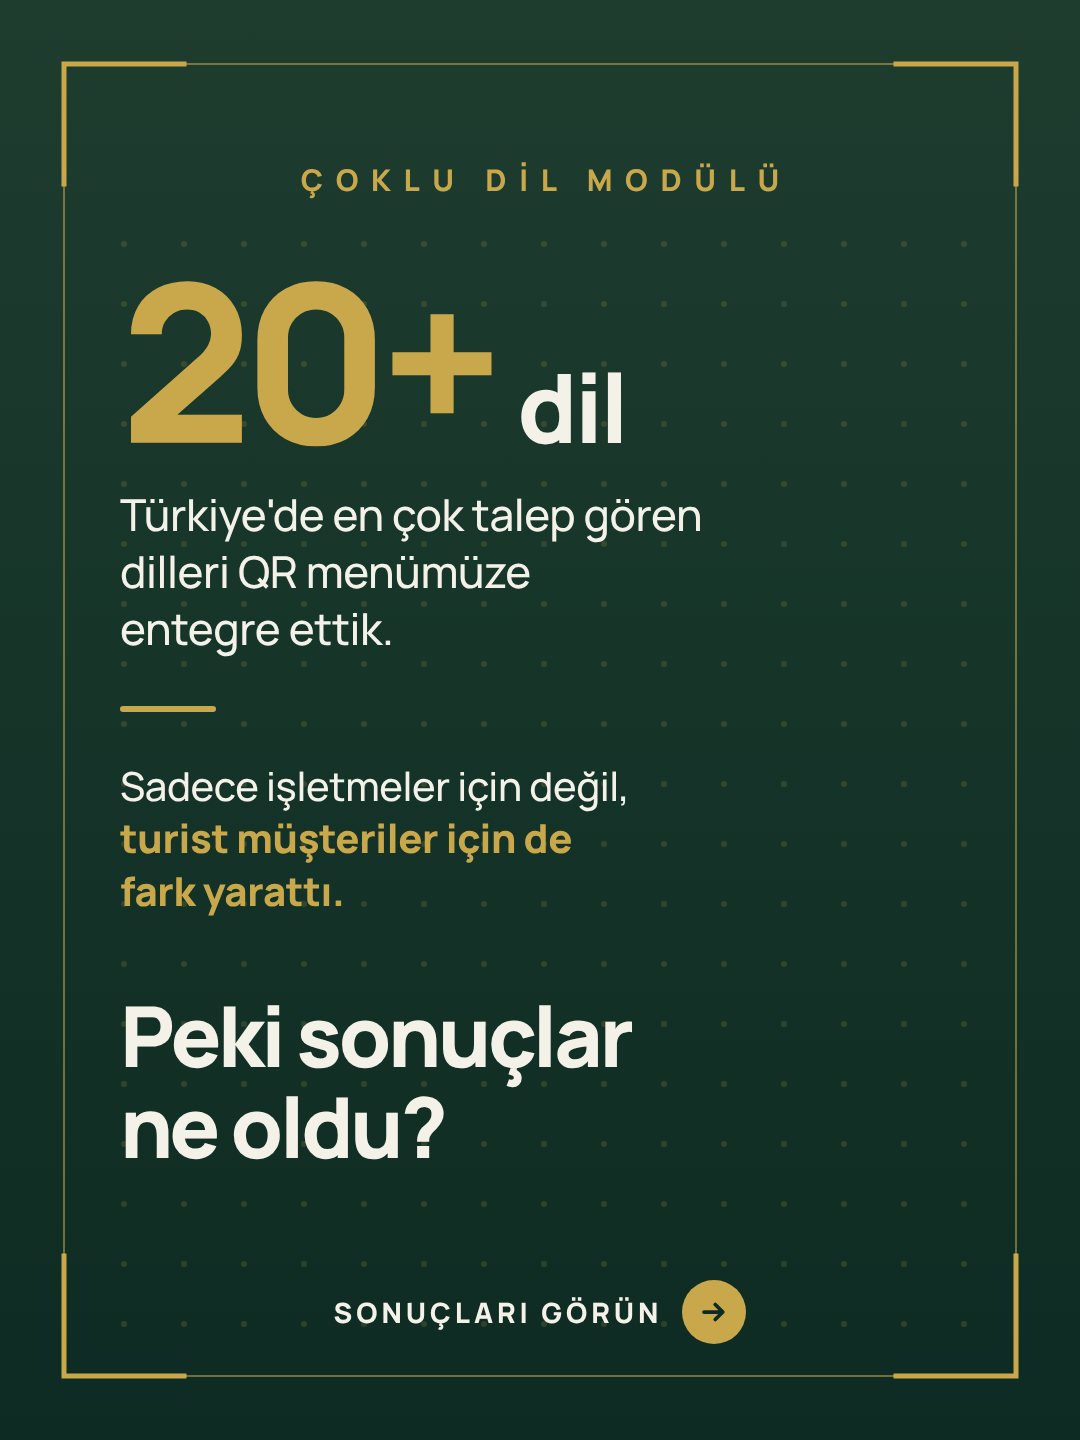
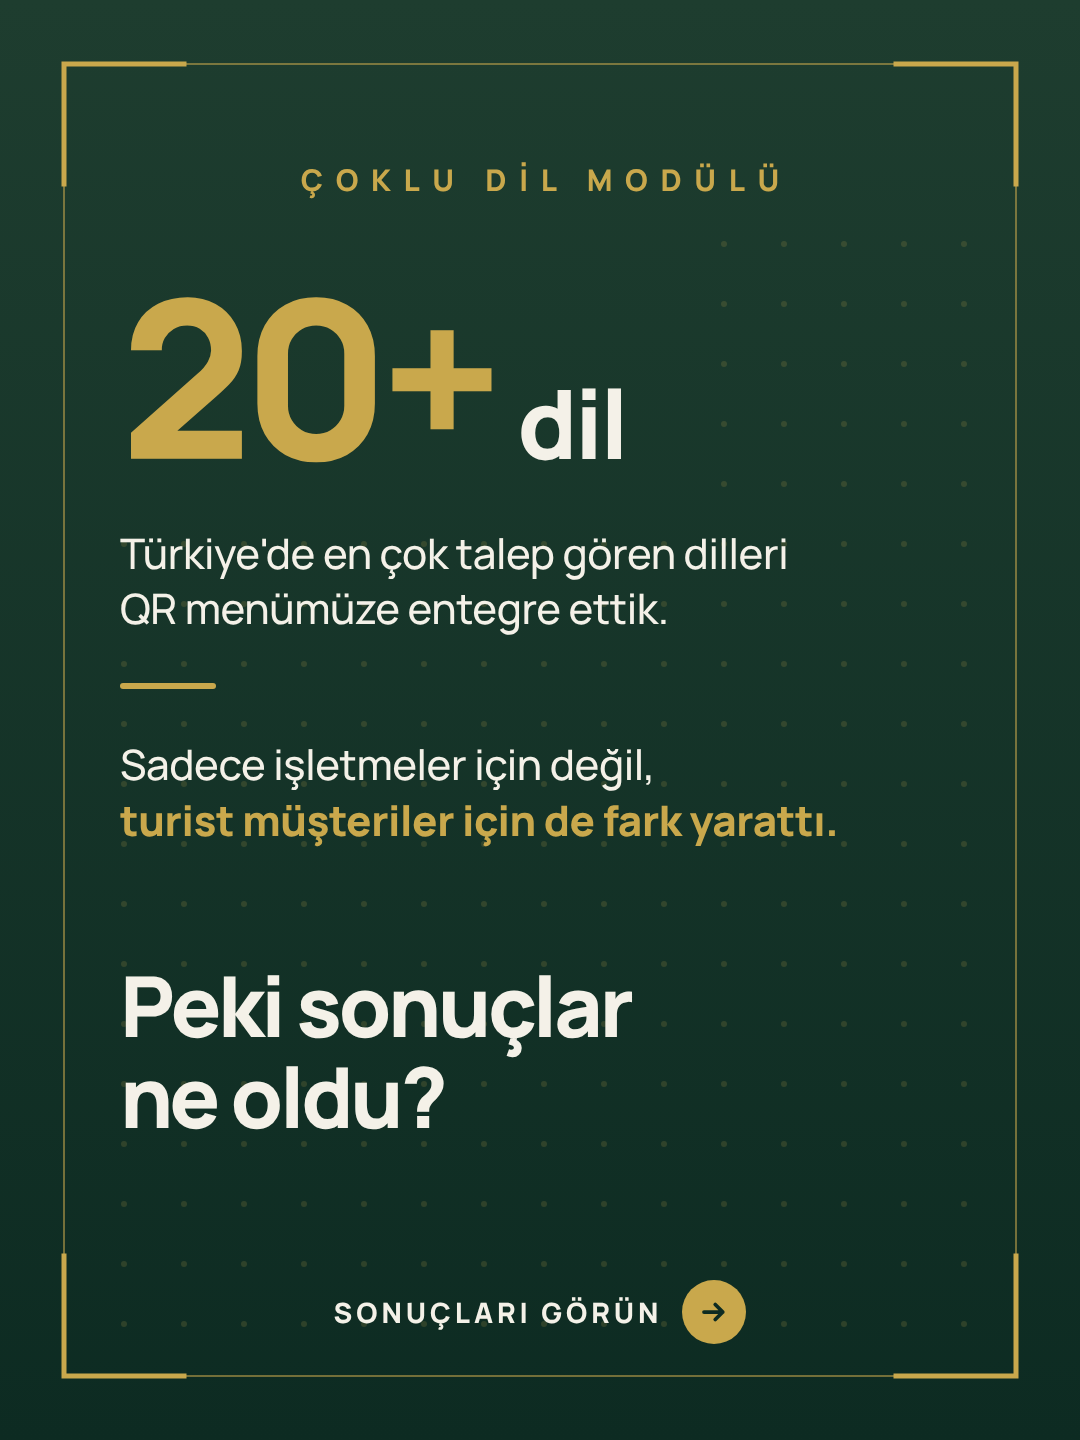
Carousel slayt 3: satır sonları, boşluk, nokta çakışması düzeltildi
Claude-Session: https://claude.ai/code/session_01FBw9rVwrniVjyFvtgVdFXq

Changed region(s): [[0.0917, 0.1875, 0.7639, 0.625], [0.0917, 0.6562, 0.5806, 0.8125]]

diff --git a/analiz/carousel-dil/carousel-v6.html b/analiz/carousel-dil/carousel-v6.html
@@ -97,8 +97,8 @@ body{background:linear-gradient(var(--y2),var(--y))!important;color:var(--off)!i
 .hero{display:flex;align-items:baseline;gap:24px;line-height:.9}
 .hero .big{font-weight:800;font-size:220px;letter-spacing:-.05em;color:var(--g)}
 .hero .unit{font-weight:800;font-size:96px;letter-spacing:-.03em;color:var(--off)}
-.p3{margin-top:28px;font-weight:500;font-size:44px;line-height:1.3;letter-spacing:-.01em}
-.p4{font-weight:500;font-size:40px;line-height:1.32;letter-spacing:-.01em}
+.p3{margin-top:52px;font-weight:500;font-size:42px;line-height:1.3;letter-spacing:-.01em}
+.p4{font-weight:500;font-size:42px;line-height:1.32;letter-spacing:-.01em}
 .p4 b{color:var(--g)}
 .p3 span,.p4 span{display:block;white-space:nowrap}
 </style></head><body>
@@ -139,12 +139,12 @@ const SL={
   <div class="q"><div class="n">3</div><div class="t">${B(`Anlaşılamayan turistin Google ve TripAdvisor'daki düşük puanı,<br>{{yeni müşterinizi etkiliyor mu?}}`)}</div></div>
  </div></div>${nx('Çözümü görün','#F4F1E8')}`},
 3:{bg:'krem',html:()=>`<div class="lab" style="font-size:30px;padding-top:34px">ÇOKLU DİL MODÜLÜ</div>
- <div class="area top" style="top:236px;bottom:240px">
+ <div class="area top" style="top:252px;bottom:240px">
   <div class="hero"><span class="big">20+</span><span class="unit">dil</span></div>
-  <div class="p3" id="P3">${L(["Türkiye'de en çok talep gören","dilleri QR menümüze","entegre ettik."])}</div>
+  <div class="p3" id="P3">${L(["Türkiye'de en çok talep gören dilleri","QR menümüze entegre ettik."])}</div>
   <div class="rule" style="margin:48px 0"></div>
-  <div class="p4" id="P4">${L(['Sadece işletmeler için değil,','{{turist müşteriler için de}}','{{fark yarattı.}}'])}</div>
-  <div class="h" id="H" data-max="84" data-min="68" style="margin-top:72px">${L(['Peki sonuçlar','ne oldu?'])}</div>
+  <div class="p4" id="P4">${L(['Sadece işletmeler için değil,','{{turist müşteriler için de fark yarattı.}}'])}</div>
+  <div class="h" id="H" data-max="84" data-min="68" style="margin-top:112px">${L(["Peki sonuçlar",'ne oldu?'])}</div>
  </div>${nx('Sonuçları görün','#F4F1E8')}`},
 4:{bg:'krem',html:()=>`<div class="lab">${MOD}</div>
  <div class="area top"><div class="h" id="H" data-max="84" data-min="64">${L(['[[Sonuçlar:]]'])}</div>
@@ -165,6 +165,7 @@ const SL={
 const n=+(new URLSearchParams(location.search).get('s')||1);
 document.body.className='zumrut';
 document.getElementById('S').innerHTML=SL[n].html();
+if(n==3)document.querySelectorAll('svg circle[r="3"]').forEach(c=>{if(+c.getAttribute('cy')<500&&+c.getAttribute('cx')<700)c.remove()});
 document.fonts.ready.then(()=>{const W=840;
  for(const id of ['H','P','P2']){const e=document.getElementById(id);if(!e)continue;let f=+e.dataset.max||56;const mn=+e.dataset.min||40;
   const w=()=>Math.max(...[...e.children].map(c=>{const r=document.createRange();r.selectNodeContents(c);return r.getBoundingClientRect().width}));
